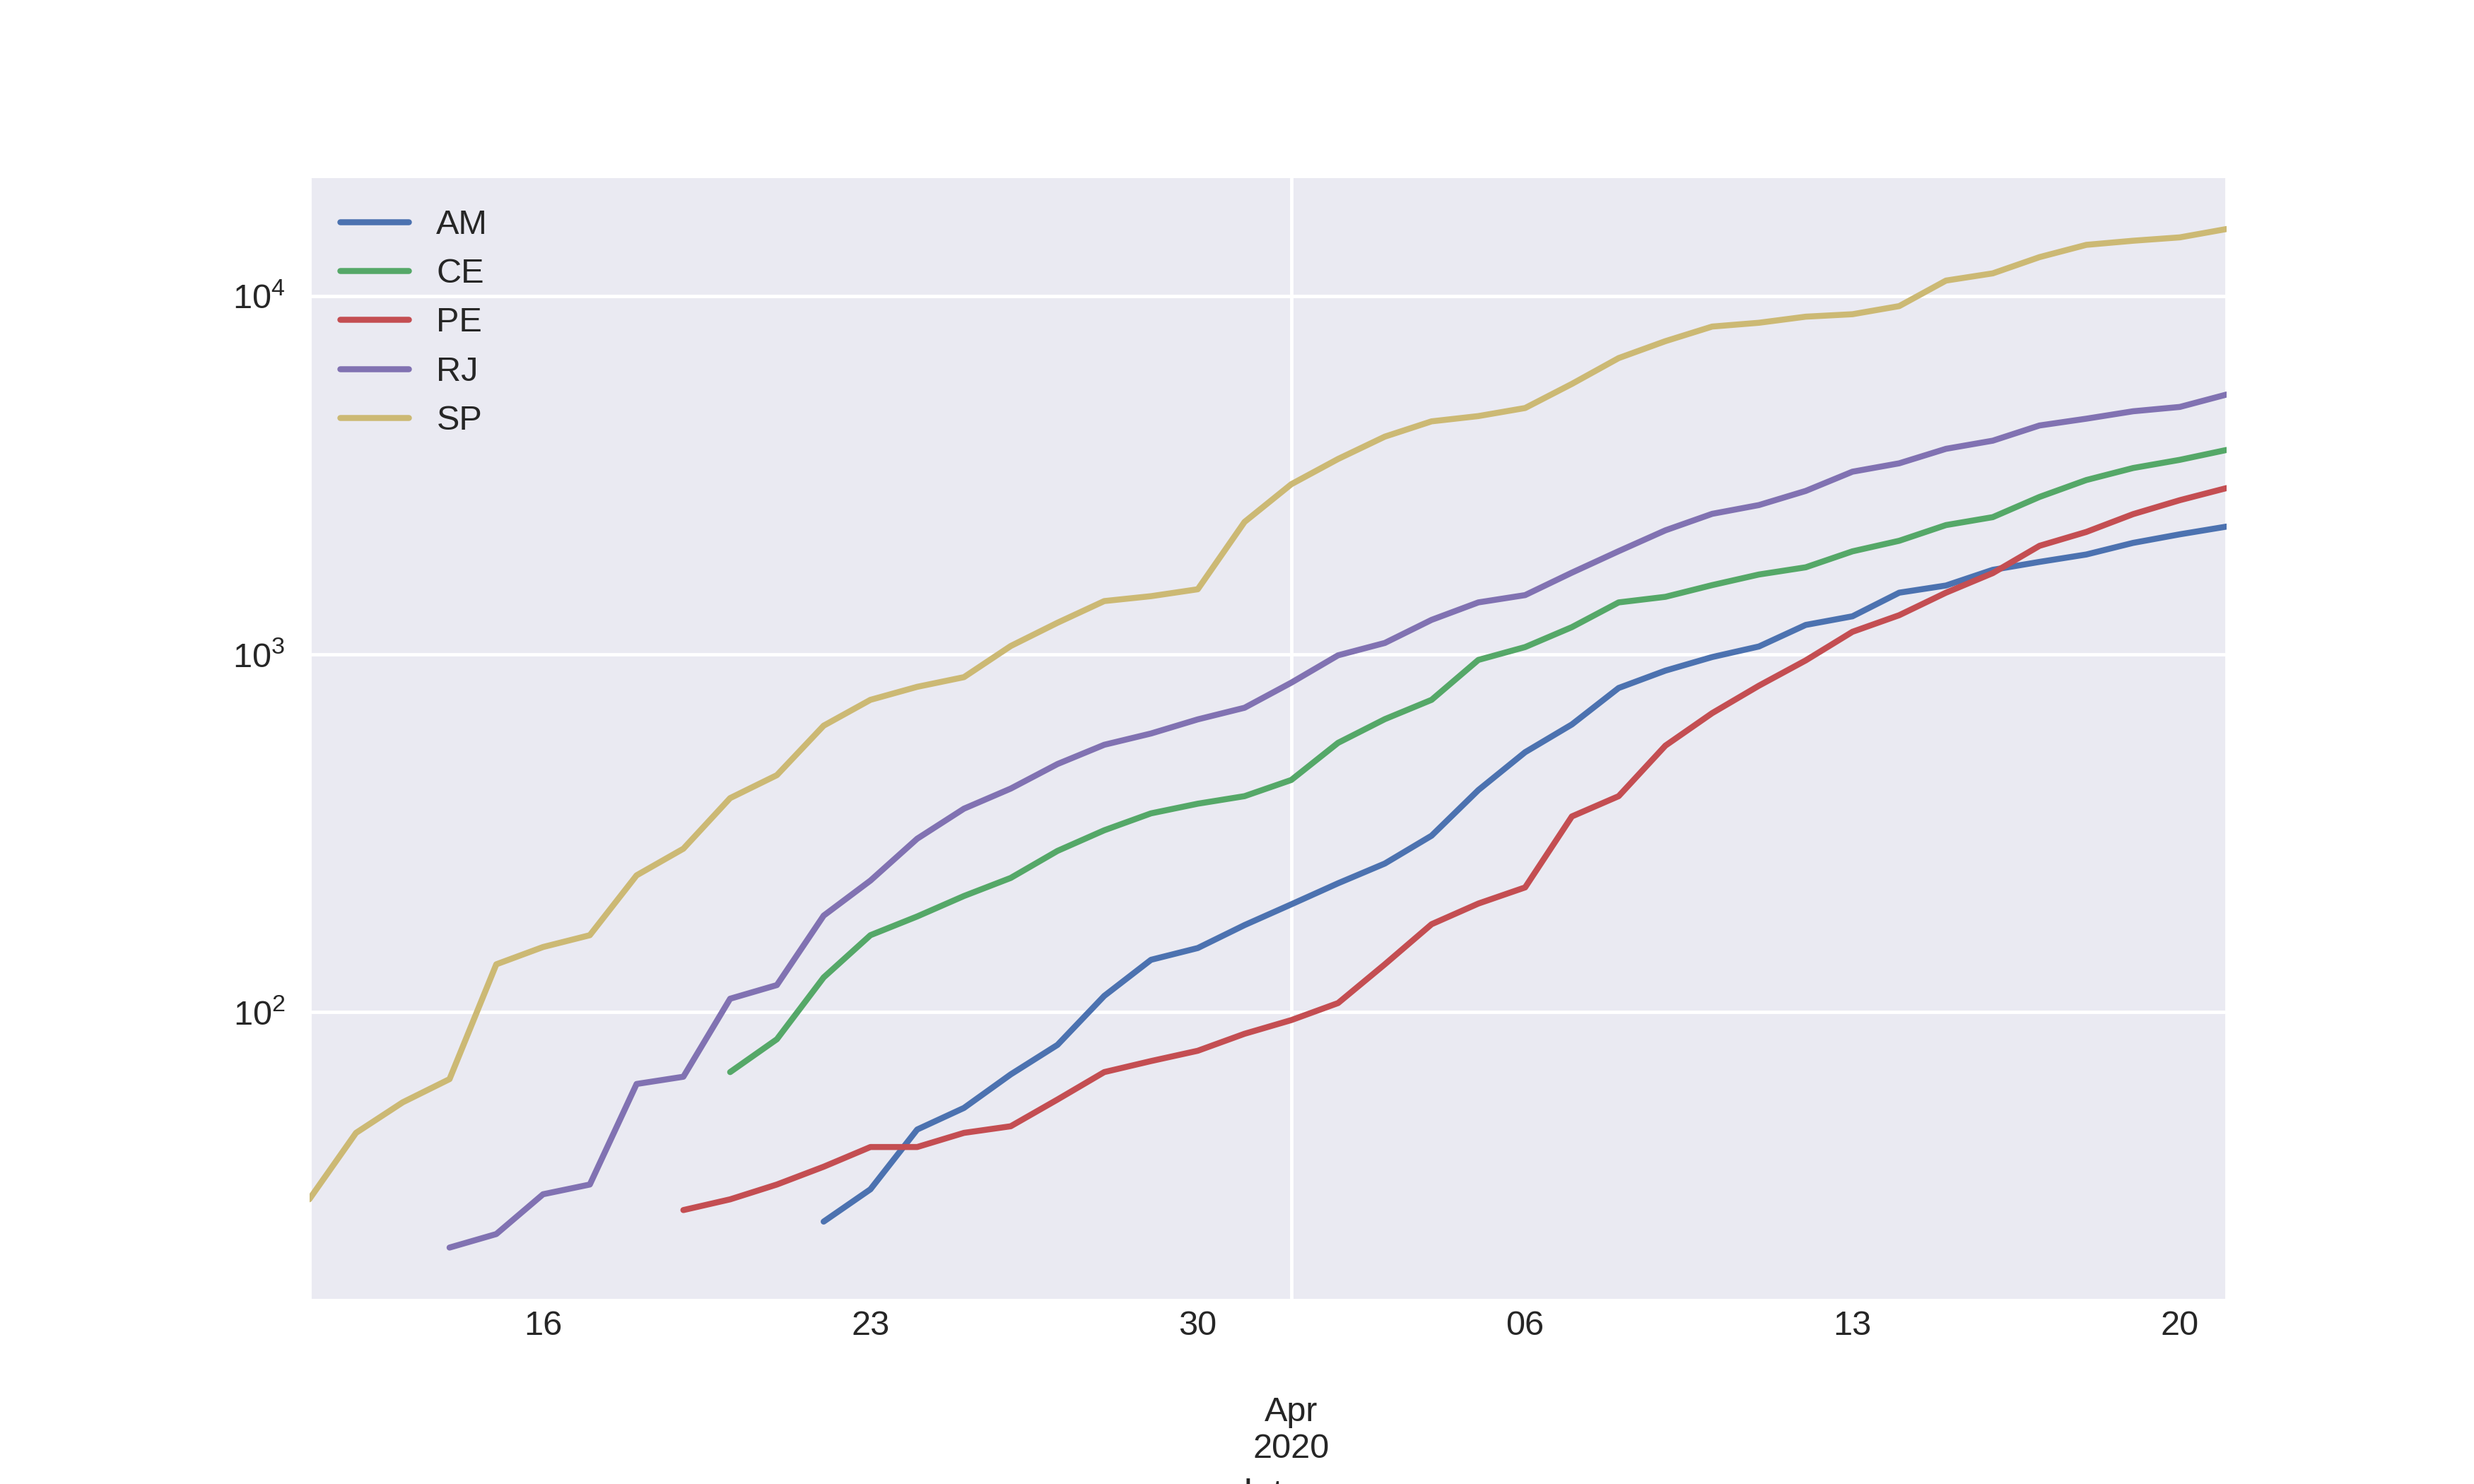
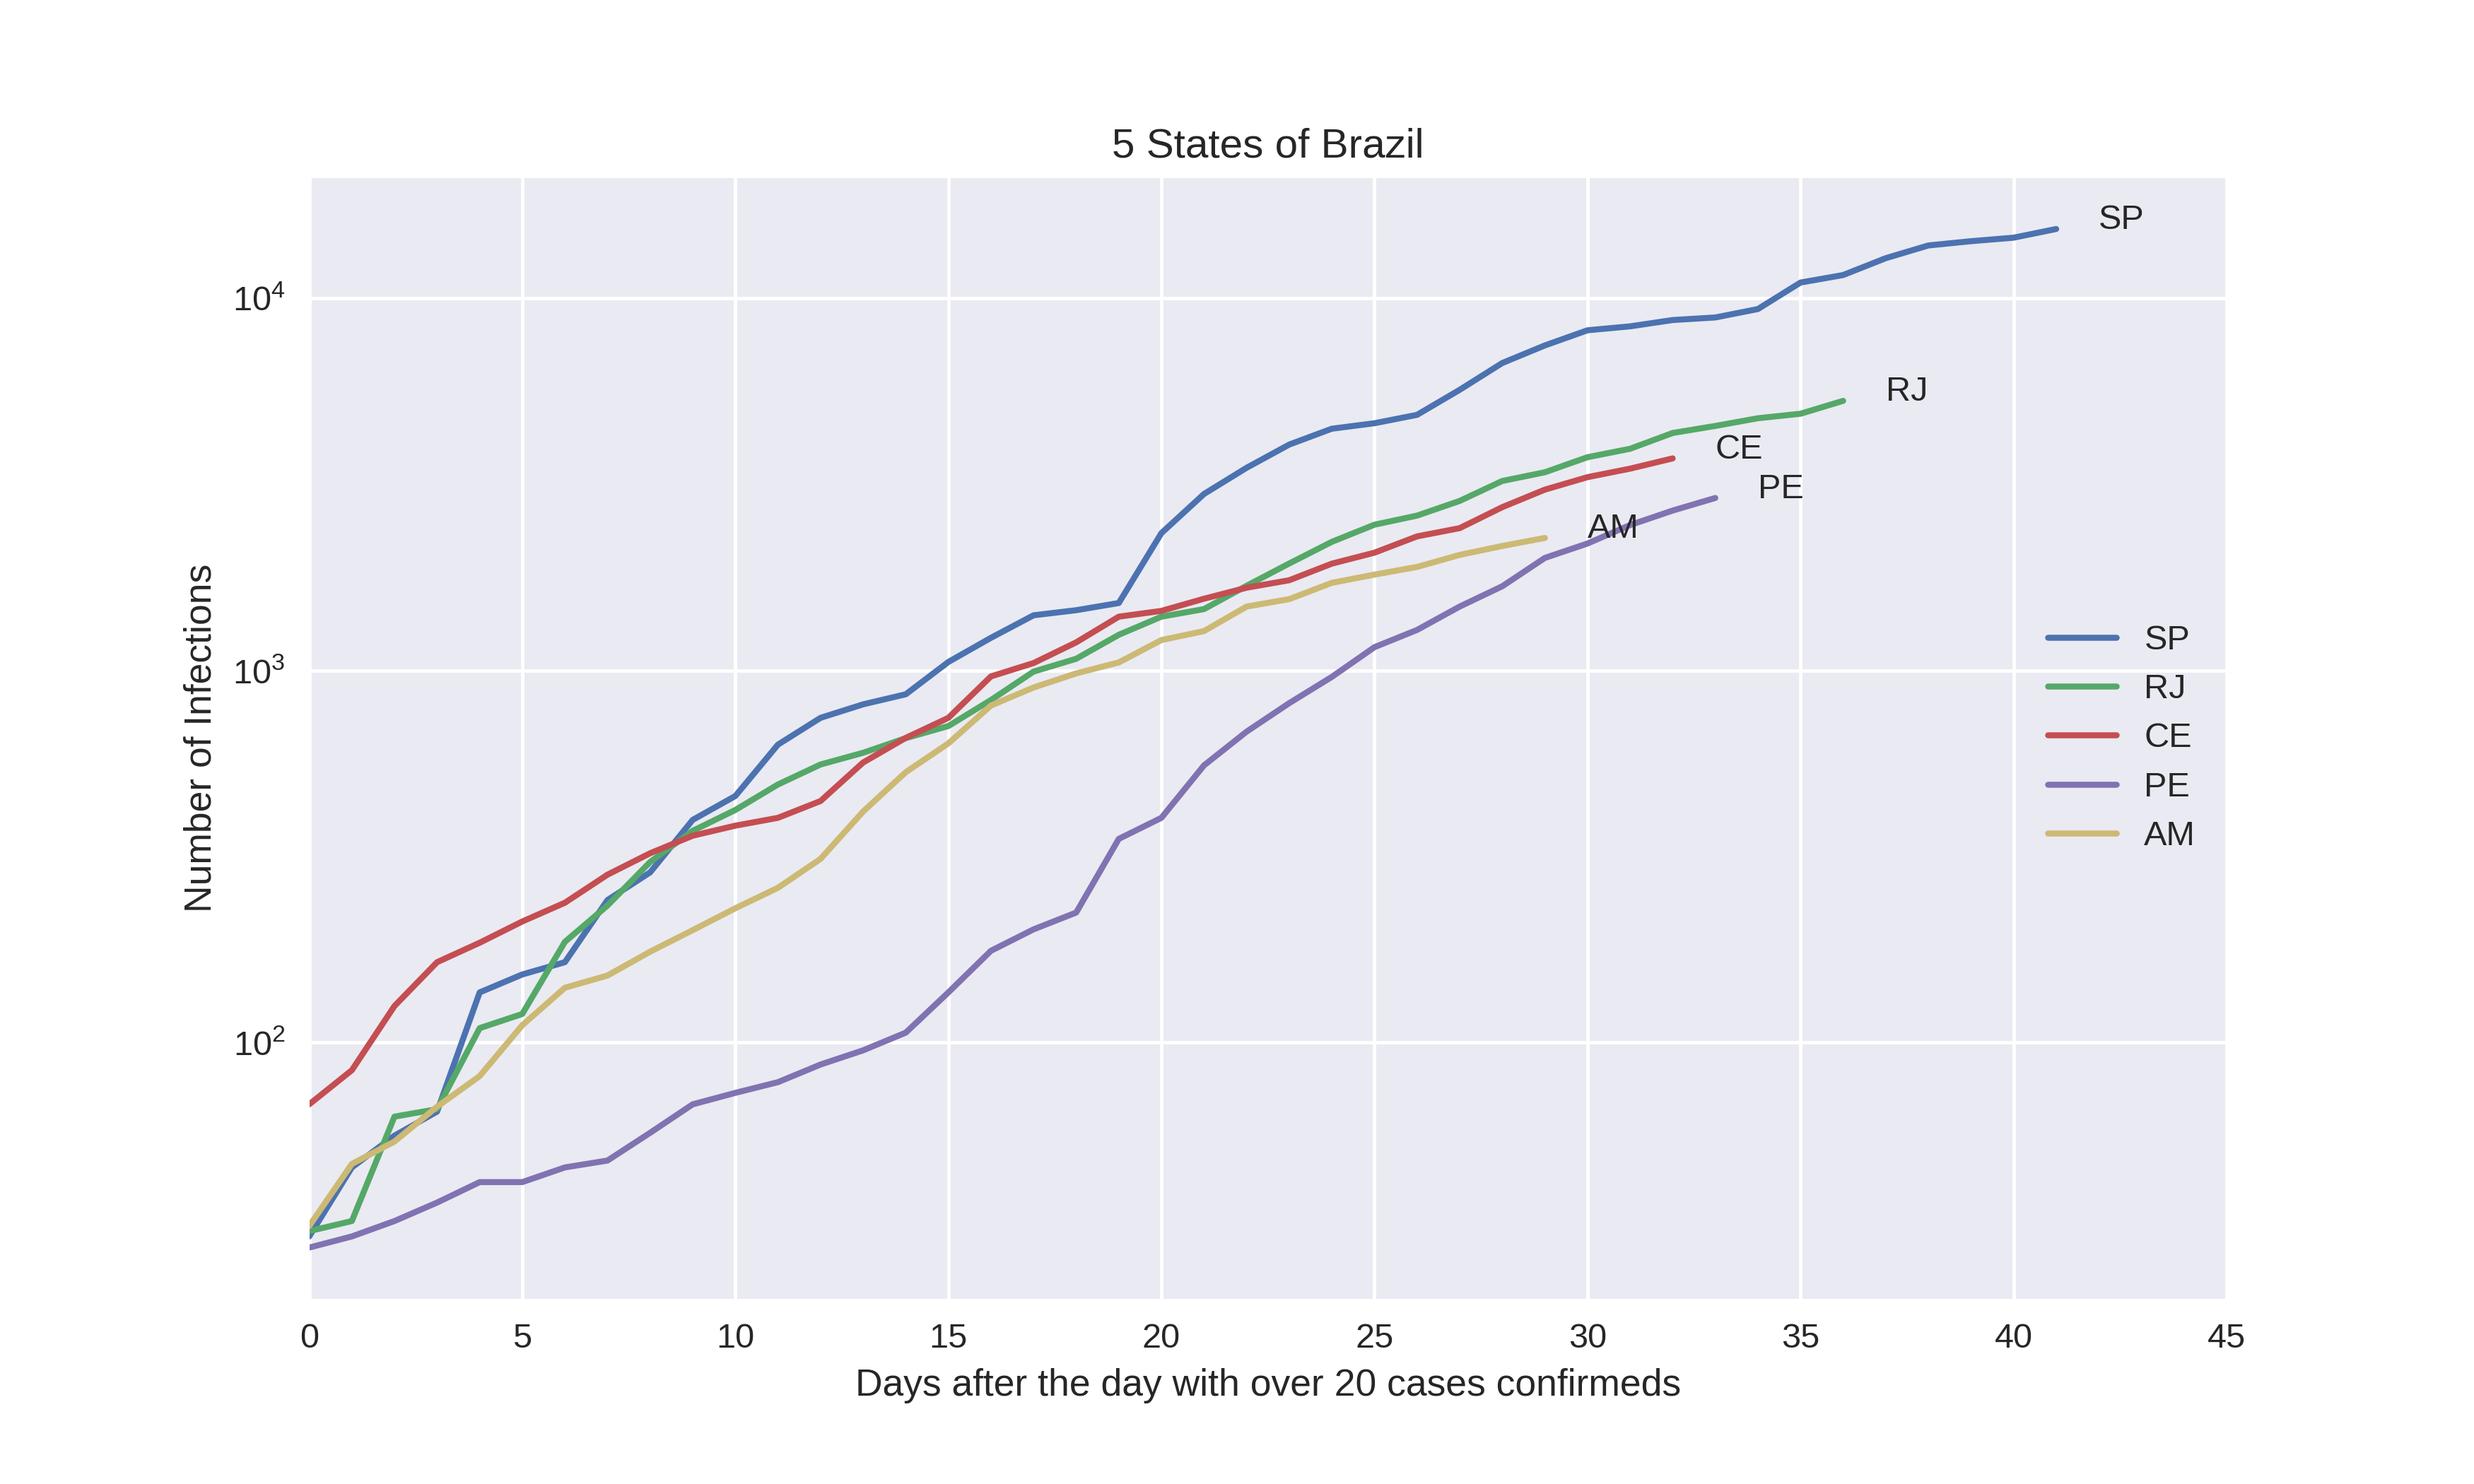
update py and figure, with states of brazil

diff --git a/Corona-Brazil.py b/Corona-Brazil.py
@@ -205,3 +205,37 @@ plt.legend(loc=5)
 # plt.show()
 fig.savefig("top_world.png",dpi=350)
 plt.close()
+
+# top 5 STATES OF BRAZIL########################
+# top 5 STATES OF BRAZIL########################
+# top 5 STATES OF BRAZIL########################
+url ="https://raw.githubusercontent.com/wcota/covid19br/master/cases-brazil-states.csv"
+datos = pd.read_csv(url,header=0,index_col="date")
+############
+############
+listStates = sorted(datos["state"].unique())[:-1]
+datos.index = pd.to_datetime(datos.index)
+nna = datos.loc[:,["state","totalCases"]].where(datos["state"] !='TOTAL').dropna().sort_values(by="totalCases",ascending=False)
+TOP5 = nna.state.unique()[:5]
+########################### TOP 5 ############
+############
+############
+fig = plt.figure(figsize=[10,6])
+ax = plt.subplot()
+
+for ii in TOP5[:5]:
+    p = datos[(datos["state"] == ii) & (datos["totalCases"] > 26. )]
+    if len(p) > 0: 
+        ax.plot(p.totalCases.values,label=ii)
+        ax.text(len(p),p.totalCases.values.max(),ii)
+ax.text(40,1,'update on '+str(datetime.now().date()))
+ax.set_yscale('log')
+ax.set_title("5 States of Brazil")
+ax.set_ylabel("Number of Infections")
+ax.set_xlim(0,45)
+ax.set_xlabel('Days after the day with over 20 cases confirmeds')
+plt.legend(loc=5)
+plt.grid("both")
+plt.show()
+fig.savefig("n20cases_TOP5.png",dpi=350)
+plt.close()
